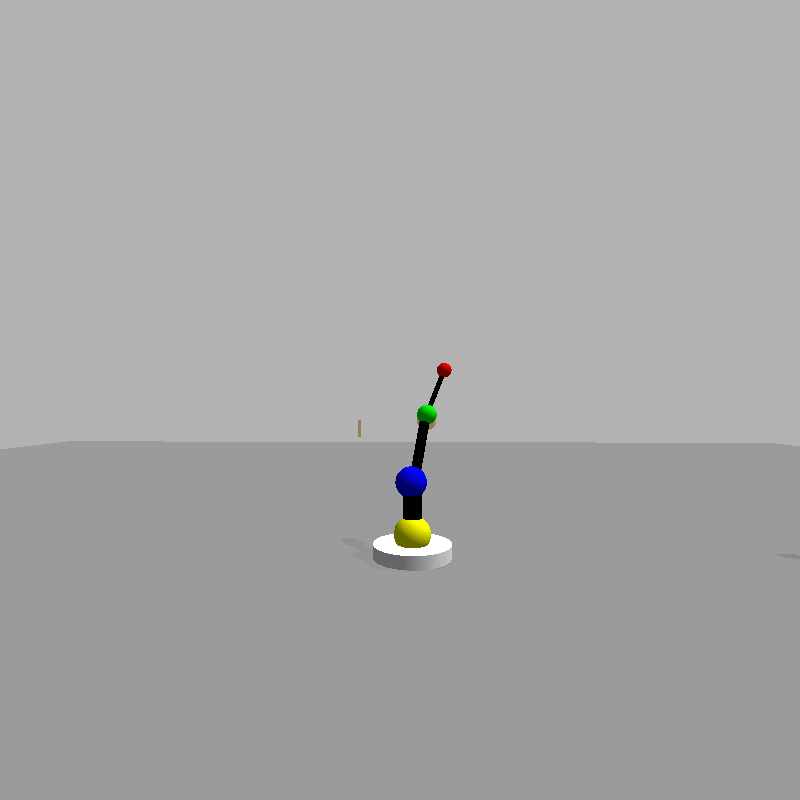
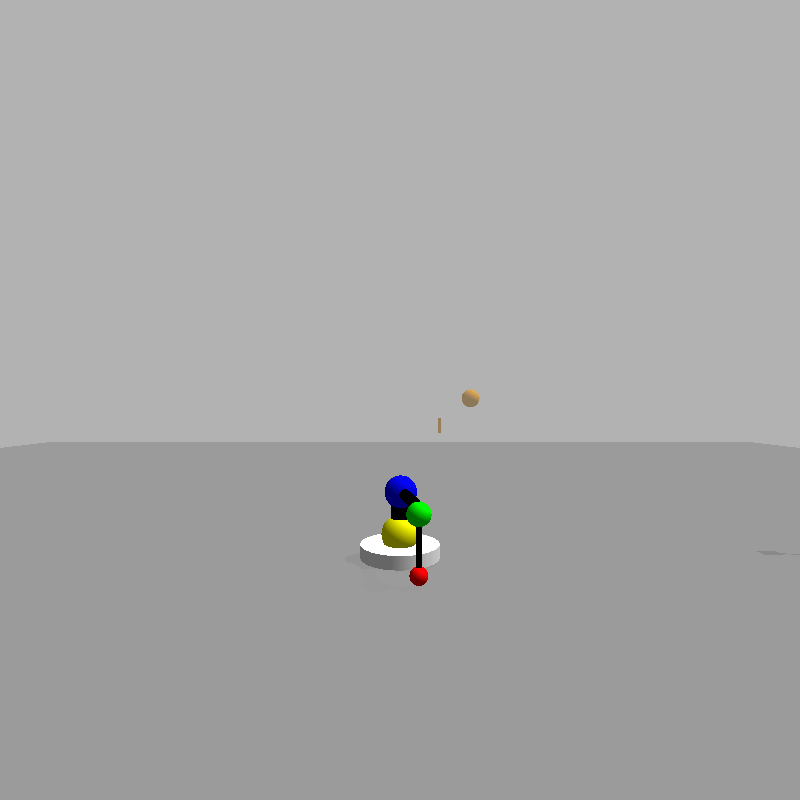
Add existing file

Changed region(s): [[0.4375, 0.4375, 0.5938, 0.75]]

diff --git a/catkin_ws/src/ivr_assignment/src/image2.py b/catkin_ws/src/ivr_assignment/src/image2.py
@@ -184,6 +184,21 @@ class image_converter:
   def pos_red_blob(self,green_blob,theta1,theta2,theta3,theta4):
     return green_blob+2*self.rot_tot(theta1,theta2,theta3,theta4).dot(np.array([0,0,1]))
 
+  def pos_red_blob_ana(self,theta1,theta2,theta3,theta4):
+    s1 = np.sin(theta1)
+    c1 = np.cos(theta1)
+    s2 = np.sin(theta2)
+    c2 = np.cos(theta2)
+    s3 = np.sin(theta3)
+    c3 = np.cos(theta3)
+    s4 = np.sin(theta4)
+    c4 = np.cos(theta4)
+    f = 3+2*c4
+    x = 2*s1*c2*s4+f*(c1*s3+s1*s2*c3)
+    y = -2*c1*c2*s4+f*(s1*s3-c1*s2*c3)
+    z = -s2*s4+f*c2*c3
+    return np.array([x,y,z])
+
   #__________________calculate joint angles_______________________
  
   #function that is minimized w.r.t. theta_123
@@ -309,7 +324,9 @@ class image_converter:
     self.target_measured = self.target_measure(target_cam1,target_cam2)
 
     #define desired joint angles
-    self.q_d = [0.6, -0.3, 0.4 , 0.4]		#move robot here
+    self.q_d = [0.1,3,0.1,20]		#move robot here
+    
+    #prepare publishing desired joint angles
     self.joint1=Float64()
     self.joint1.data= self.q_d[0]
     self.joint2=Float64()
@@ -319,6 +336,7 @@ class image_converter:
     self.joint4=Float64()
     self.joint4.data= self.q_d[3]
    
+    #prepare publishing measured joint angles
     theta_measured = self.measure_angle()
     self.joint1m=Float64()
     self.joint1m.data= theta_measured[0]
@@ -329,6 +347,7 @@ class image_converter:
     self.joint4m=Float64()
     self.joint4m.data= theta_measured[3]
 
+    #prepare publishing measured target position
     self.spherex=Float64()
     self.spherex.data=self.target_measured[0]
     self.spherey=Float64()
@@ -336,10 +355,30 @@ class image_converter:
     self.spherez=Float64()
     self.spherez.data=self.target_measured[2]
 
-    print("desired:\t{}".format(self.q_d))
+    #Correct error when sphere is hidden by target
+    #Assume that the first value of sphere isn't less than -1
+    if self.spherex.data<-1:
+       self.spherex.data = spherex_reserve
+    else:
+       spherex_reserve = self.spherex.data
+
+    if self.spherey.data <-1:
+       self.spherey.data = spherey_reserve
+    else:
+       spherey_reserve = self.spherey.data
+ 
+    if self.spherez.data <-1:
+       self.spherez.data = spherez_reserve
+    else:
+       spherez_reserve = self.spherez.data
+
+    #several results for testing
+    '''print("desired:\t{}".format(self.q_d))
     print("numerical:\t{}".format(theta_measured))
-    #print(self.func_min(self.q_d[:-1]))
-    #print(self.func_min(theta_measured[:-1]))
+    print(self.func_min(self.q_d[:-1]))
+    print(self.func_min(theta_measured[:-1]))
+    print(self.pos_red_blob_ana(*self.q_d))
+    print(self.pos_red_blob(self.pos_green_blob(*self.q_d[0:-1]),*self.q_d))'''
 
     #publish results
     try: 
